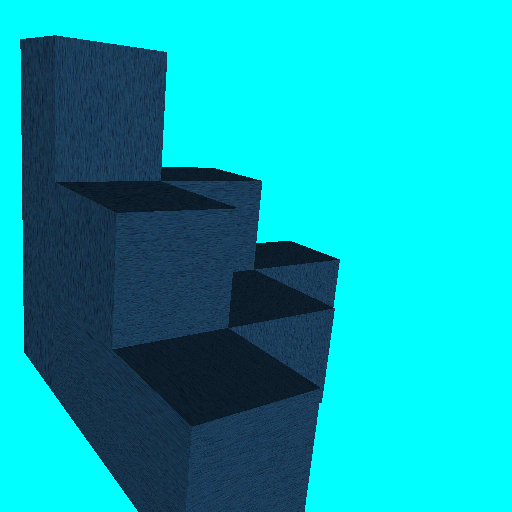
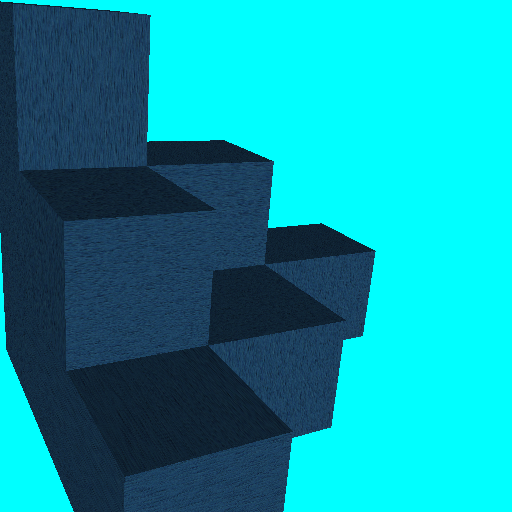
基線長と開口径は固定するように。zoomとウィンドウ幅が変更されたときのみ変更

Changed region(s): [[0.0, 0.0, 0.75, 1.0]]

diff --git a/parameter.c b/parameter.c
@@ -15,7 +15,7 @@ double apertureSize; // カメラの開口径
 double DTPparam[CAM_NUM][2]; // PSFSize <--> 視差 の変換パラメータ
 
 
-double tmf;
+double tmf; // = tan ( FOVの最小値 ) : zoomが変化しても一定値をとるので
 
 //init
 void initParam(void)
@@ -31,6 +31,8 @@ void initParam(void)
     apertureSize 
       = 2.0 * MAX_PSF_RADIUS * zMin * zMax * tmf / ( (zMax - zMin) * (double)winWidth * zoom);
   }
+
+  baseLine = MAX_DISPARITY * 2.0 * tmf / (zoom * (double)winWidth );
 
   // 最も近い所にピントを合わせる
   focalDepth[LEFT_CAM] = zMin;
@@ -49,13 +51,23 @@ void initParam(void)
 
 //setter
 void setZoom(double val)
-{ zoom = val;
-  eye[LEFT_CAM][0] = -getBaseLine()/2.0;
-  eye[RIGHT_CAM][0] = getBaseLine()/2.0;
+{ 
+  double prevZoom = zoom;
+  zoom = val;
+  baseLine *= (prevZoom / zoom );
+  apertureSize *= (prevZoom / zoom );
+  eye[LEFT_CAM][0] = -baseLine / 2.0;
+  eye[RIGHT_CAM][0] = baseLine / 2.0;
 }
 
 void setWindowSize( int width, int height)
-{  winWidth = width;  winHeight = height;}
+{ 
+  int prevWinWidth = winWidth;
+  winWidth = width;  
+  winHeight = height;
+  baseLine *= ( (double)prevWinWidth / (double)winWidth );
+  apertureSize *= ( (double)prevWinWidth / (double)winWidth );
+}
 
 void setEye( double val[3], int cam)
 {  eye[cam][0] = val[0];  eye[cam][1] = val[1];  eye[cam][2] = val[2];}
@@ -66,7 +78,11 @@ void setFocalDepth( double val, int cam)
 void setAperturePattern(int val, int cam)
 {  aperturePattern[cam] = val;}
 
+void setApertureSize( double val )
+{ apertureSize = val;}
 
+void setBaseLine( double val)
+{ baseLine = val;}
 
 
 
@@ -78,32 +94,22 @@ double getFov(void)
 }
 
 double getBaseLine(void)
-{
-  return baseLine 
-    = MAX_DISPARITY * 2.0 * tmf / (zoom * (double)winWidth);
-}
+{  return baseLine; }
 
 void getEye( int cam , double dst[])
 {
-
   dst[0] = eye[cam][0];  dst[1] = eye[cam][1];  dst[2] = eye[cam][2];
 }
 
 double getFocalDepth( int cam )
-{
-  return focalDepth[cam];
-}
+{  return focalDepth[cam]; }
 
 
 int getAperturePattern( int cam )
-{
-  return aperturePattern[cam];
-}
+{  return aperturePattern[cam]; }
 
 double getApertureSize(void)
-{
-  return apertureSize;
-}
+{  return apertureSize; }
 
 void getDTPParam( int cam , double dst[])
 {
@@ -113,22 +119,33 @@ void getDTPParam( int cam , double dst[])
   dst[1] = DTPparam[cam][1] = -DTPparam[cam][0] * disp ;
 }
 
-double disparityFromDepth( double depth )
-{
-  return (double)winWidth*baseLine/(2.0*depth*tmf/zoom);
-}
+int getWindowWidth(void)
+{  return winWidth; }
 
-int    getWindowWidth(void)
-{
-  return winWidth;
-}
-
-int    getWindowHeight(void)
-{
-  return winHeight;
-}
+int getWindowHeight(void)
+{  return winHeight; }
 
 double getFLength(void)
+{  return f; }
+
+int getMaxDisparity(void)
+{  return baseLine * zoom * (double)winWidth / ( 2.0 * tmf ); }
+
+int getMaxPSFSize(void)
 {
-  return f;
+  double zMin, zMax;
+  IplImage *zBuffer = readDepthBuffer();
+  if(zBuffer != NULL ){
+    cvConvertScale( zBuffer, zBuffer, -1.0, 0.0 );
+    cvMinMaxLoc( zBuffer, &zMin, &zMax, NULL, NULL, NULL);
+    cvReleaseImage(&zBuffer);
+    return apertureSize * (zMax - zMin) * (double)winWidth * zoom / ( 2.0 * zMin * zMax * tmf ) + 1.0;
+  }
+  return -1;
 }
+
+
+// convert
+double disparityFromDepth( double depth )
+{  return (double)winWidth*baseLine/(2.0*depth*tmf/zoom); }
+

diff --git a/viewer.c b/viewer.c
@@ -154,8 +154,8 @@ void initViewer(int argc, char* argv[])
 
   //center camera
   GLUI_Panel* ccamPanel = glui->add_panel_to_panel( paramPanel, "center" );
-  baseLineBox = glui->add_edittext_to_panel(ccamPanel, "base line:", GLUI_EDITTEXT_FLOAT, NULL, 0, changeDTPParam);
-  apertureSizeBox = glui->add_edittext_to_panel(ccamPanel, "aperture size:", GLUI_EDITTEXT_FLOAT, NULL, 0, changeDTPParam);
+  baseLineBox = glui->add_edittext_to_panel(ccamPanel, "base line:", GLUI_EDITTEXT_FLOAT, NULL, 0, changeBaseLine);
+  apertureSizeBox = glui->add_edittext_to_panel(ccamPanel, "aperture size:", GLUI_EDITTEXT_FLOAT, NULL, 0, changeApertureSize);
   glui->add_column_to_panel( paramPanel, true);
 
   //right camera
@@ -364,8 +364,8 @@ void saveParameters( char *filename )
     fprintf( fp, "\tbase line length [camera corrdinate]: %lf \n", getBaseLine() );
     fprintf( fp, "\taperture size [camera corrdinate]: %lf \n", getApertureSize() );
     fprintf( fp, "\tfov [angle] :  %lf \n", getFov());
-    fprintf( fp, "\tMAX DISPARITY : %lf\n", MAX_DISPARITY);
-    fprintf( fp, "\tMAX PSF RADIUS : %lf\n", MAX_PSF_RADIUS);
+    fprintf( fp, "\tMAX DISPARITY : %d\n", getMaxDisparity());
+    fprintf( fp, "\tMAX PSF RADIUS : %d\n", getMaxPSFSize());
 
     fprintf( fp, "\n\nleft camera\n");
     fprintf( fp, "\tfocal depth : %lf \n", getFocalDepth(LEFT_CAM));
@@ -373,7 +373,7 @@ void saveParameters( char *filename )
     getDTPParam( LEFT_CAM, par);
     fprintf( fp, "\tDTPParam : PSFSize = %lf * disparity + %lf\n", par[0], par[1]);
 
-    fprintf( fp, "\n\right camera\n");
+    fprintf( fp, "\nright camera\n");
     fprintf( fp, "\tfocal depth : %lf \n", getFocalDepth(RIGHT_CAM));
     fprintf( fp, "\taperture patern : %d\n", getAperturePattern(RIGHT_CAM));
     getDTPParam( RIGHT_CAM, par);
@@ -618,9 +618,9 @@ void changeZoom(int id)
   setPerspective(id);
 }
 
-void changePSF( int id)
+void changePSF( int camID)
 {
-  setAperturePattern( listBoxVar[cam], id);
+  setAperturePattern( listBoxVar[camID], camID);
 }
 
 void changeDTPParam( int id){
@@ -636,3 +636,12 @@ void changeFocalDepth( int id )
   tBox[id][1]->set_float_val( par[1] );
 }
 
+void changeBaseLine( int id)
+{
+  setBaseLine( baseLineBox->get_float_val() );
+}
+
+void changeApertureSize( int id)
+{
+  setApertureSize( apertureSizeBox->get_float_val());
+}

diff --git a/viewer.h b/viewer.h
@@ -30,9 +30,10 @@ void saveParameters( char *filename ); //if filename is NULL saved in yyddmm-ttm
 
 //return value : IPL_DEPTH_32F, BGRA
 IplImage* readPixel(void); //normalize between 0 and 1
+IplImage* readPixelAtEye( double x, double y);
 IplImage* readDepthBuffer(void); // clipped from -128 to -1 (カメラ座標系)
 
-IplImage* readPixelAtEye( double x, double y);
+
 
 
 //private method
@@ -58,6 +59,8 @@ void changeCamera( int num);
 
 void changeZoom(int id);
 void changePSF( int id);
+void changeBaseLine( int id);
+void changeApertureSize( int id);
 void changeDTPParam( int id );
 void changeFocalDepth( int id );
 

diff --git a/parameter.h b/parameter.h
@@ -23,6 +23,8 @@ void setWindowSize( int width, int height);
 void setEye( double val[3], int cam);
 void setFocalDepth( double val, int cam);
 void setAperturePattern(int val, int cam);
+void setApertureSize( double val );
+void setBaseLine( double val);
 
 //getter
 double getFov(void);
@@ -35,6 +37,9 @@ void   getDTPParam( int cam , double dst[]);
 int    getWindowWidth(void);
 int    getWindowHeight(void);
 double getFLength(void);
+int    getMaxDisparity(void);
+int    getMaxPSFSize(void);
+
 //convert
 double disparityFromDepth( double depth );
 

diff --git a/settings.h b/settings.h
@@ -1,8 +1,8 @@
 #ifndef __SETTINGS__
 #define __SETTINGS__
 
-#define MAX_PSF_RADIUS 32.0
-#define MAX_DISPARITY 32.0
+#define MAX_PSF_RADIUS 16.0
+#define MAX_DISPARITY 48.0
 #define Z_MAX 128.0
 
 #define WINDOW_WIDTH 512

diff --git a/camera.c b/camera.c
@@ -197,7 +197,9 @@ void blur(char saveFileName[], int apertureID)
     }
   }
 
-  printf("finished\n");
+
+  _ClearLine();
+  printf("progress : 100 %%\n");
 
   cvFlip( img, NULL, 0);
   cvSaveImage( saveFileName, img );
